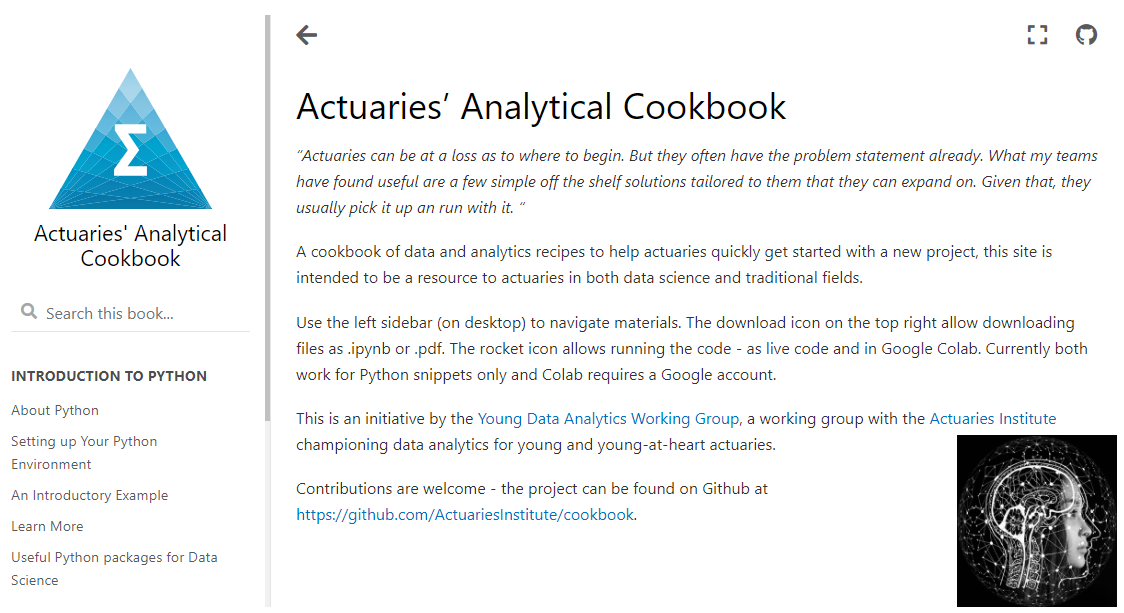
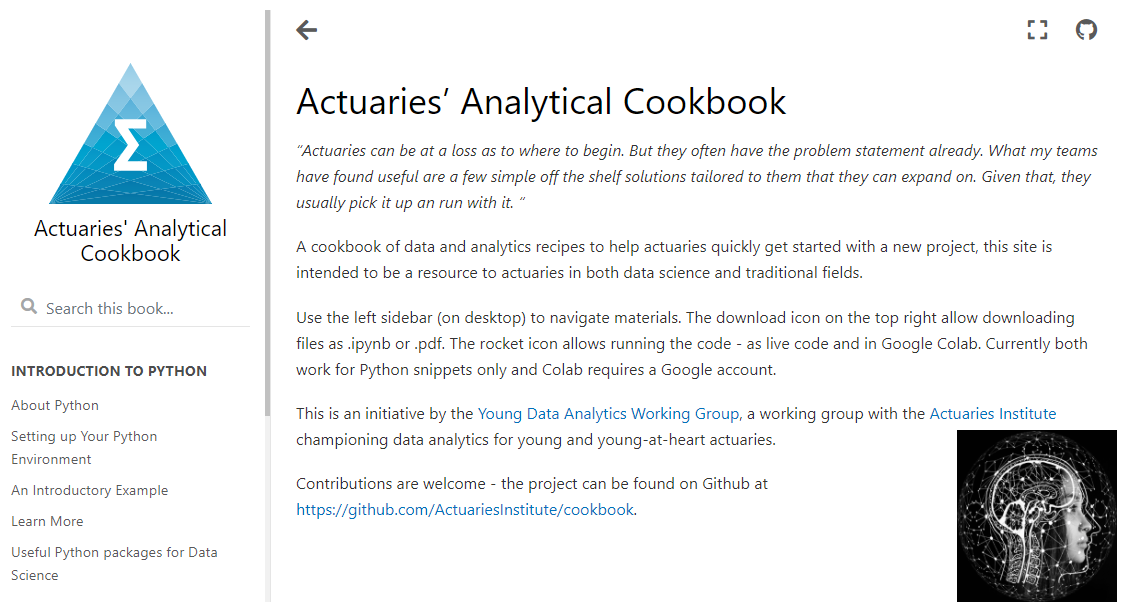
Update

diff --git a/docs/posts/20211124 actuaries_cookbook/index.html b/docs/posts/20211124 actuaries_cookbook/index.html
@@ -104,8 +104,8 @@ code span.wa { color: #5e5e5e; font-style: italic; } /* Warning */
 <meta property="og:description" content="I have collaborated with members of the Actuaries Institute of Australia on this &#39;Actuaries Analytical Cookbook&#39;. It spawned from the idea of sharing recipes to help actuaries and data scientists get started quickly on new projects."/>
 <meta property="og:url" content="https://pat-reen.github.io/More-Modelling-Recipes/posts/20211124 actuaries_cookbook/"/>
 <meta property="og:image" content="https://pat-reen.github.io/More-Modelling-Recipes/posts/20211124 actuaries_cookbook/img/prev_actuaries_cookbook.png"/>
-<meta property="og:image:width" content="1125"/>
-<meta property="og:image:height" content="592"/>
+<meta property="og:image:width" content="1124"/>
+<meta property="og:image:height" content="608"/>
 <meta property="og:locale" content="en_US"/>
 <meta property="og:site_name" content="More recipes"/>
 
@@ -115,8 +115,8 @@ code span.wa { color: #5e5e5e; font-style: italic; } /* Warning */
 <meta property="twitter:description" content="I have collaborated with members of the Actuaries Institute of Australia on this &#39;Actuaries Analytical Cookbook&#39;. It spawned from the idea of sharing recipes to help actuaries and data scientists get started quickly on new projects."/>
 <meta property="twitter:url" content="https://pat-reen.github.io/More-Modelling-Recipes/posts/20211124 actuaries_cookbook/"/>
 <meta property="twitter:image" content="https://pat-reen.github.io/More-Modelling-Recipes/posts/20211124 actuaries_cookbook/img/prev_actuaries_cookbook.png"/>
-<meta property="twitter:image:width" content="1125"/>
-<meta property="twitter:image:height" content="592"/>
+<meta property="twitter:image:width" content="1124"/>
+<meta property="twitter:image:height" content="608"/>
 
 <!--/radix_placeholder_meta_tags-->
   <!--radix_placeholder_rmarkdown_metadata-->
